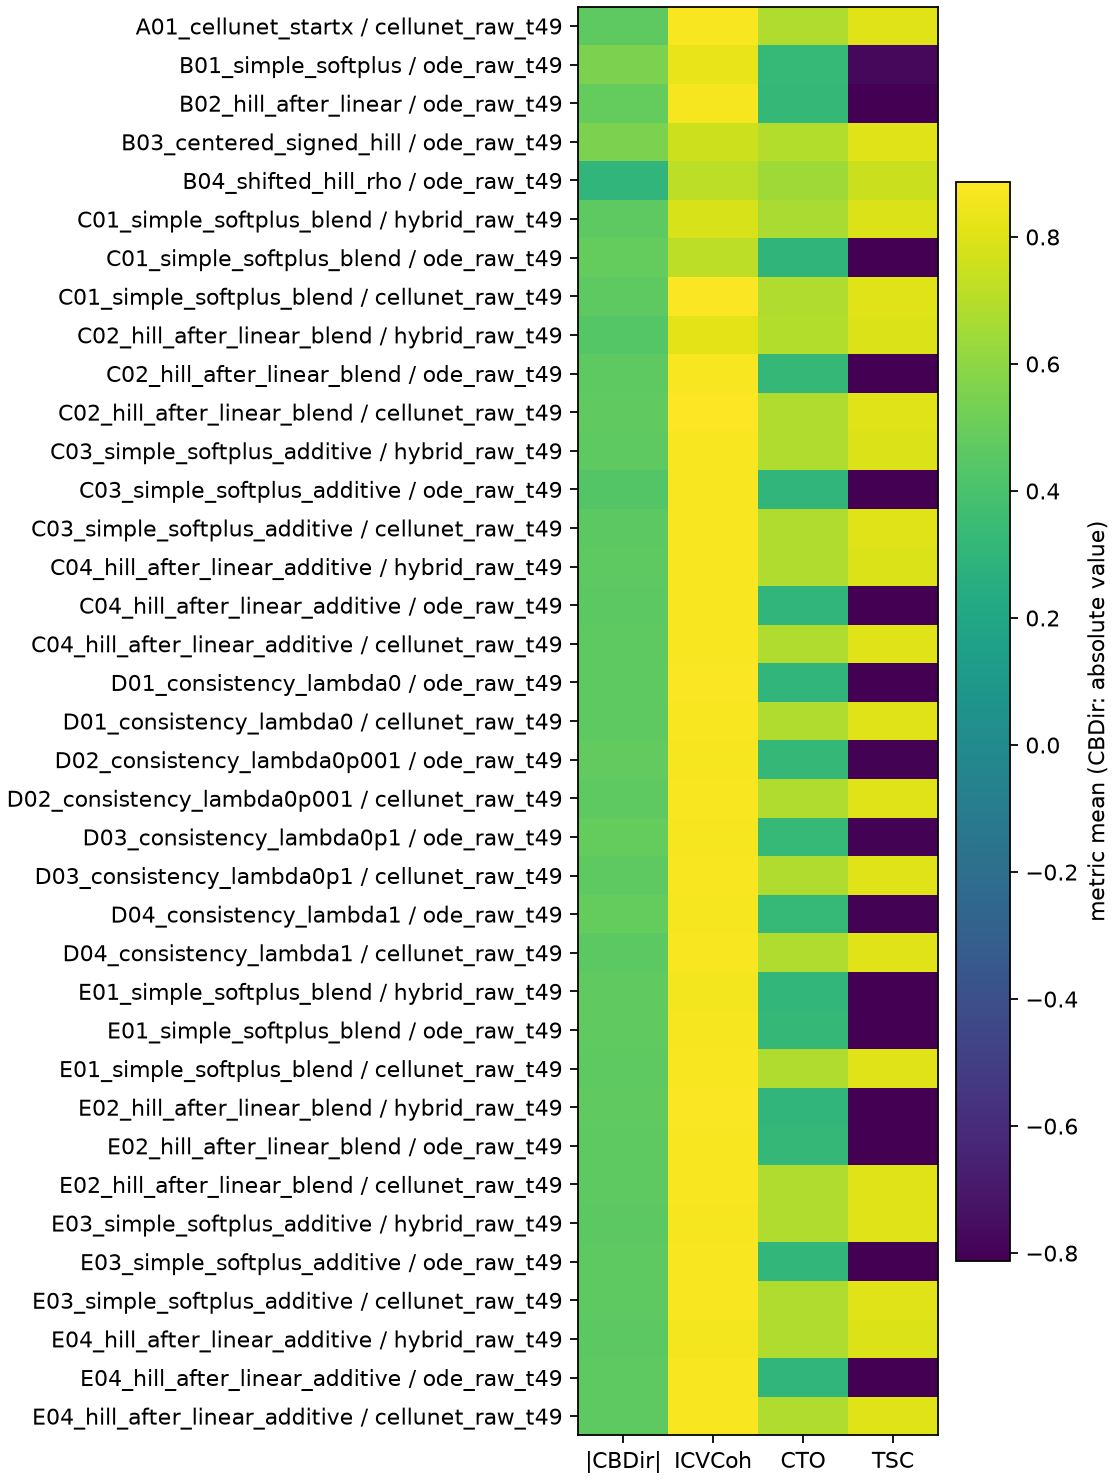
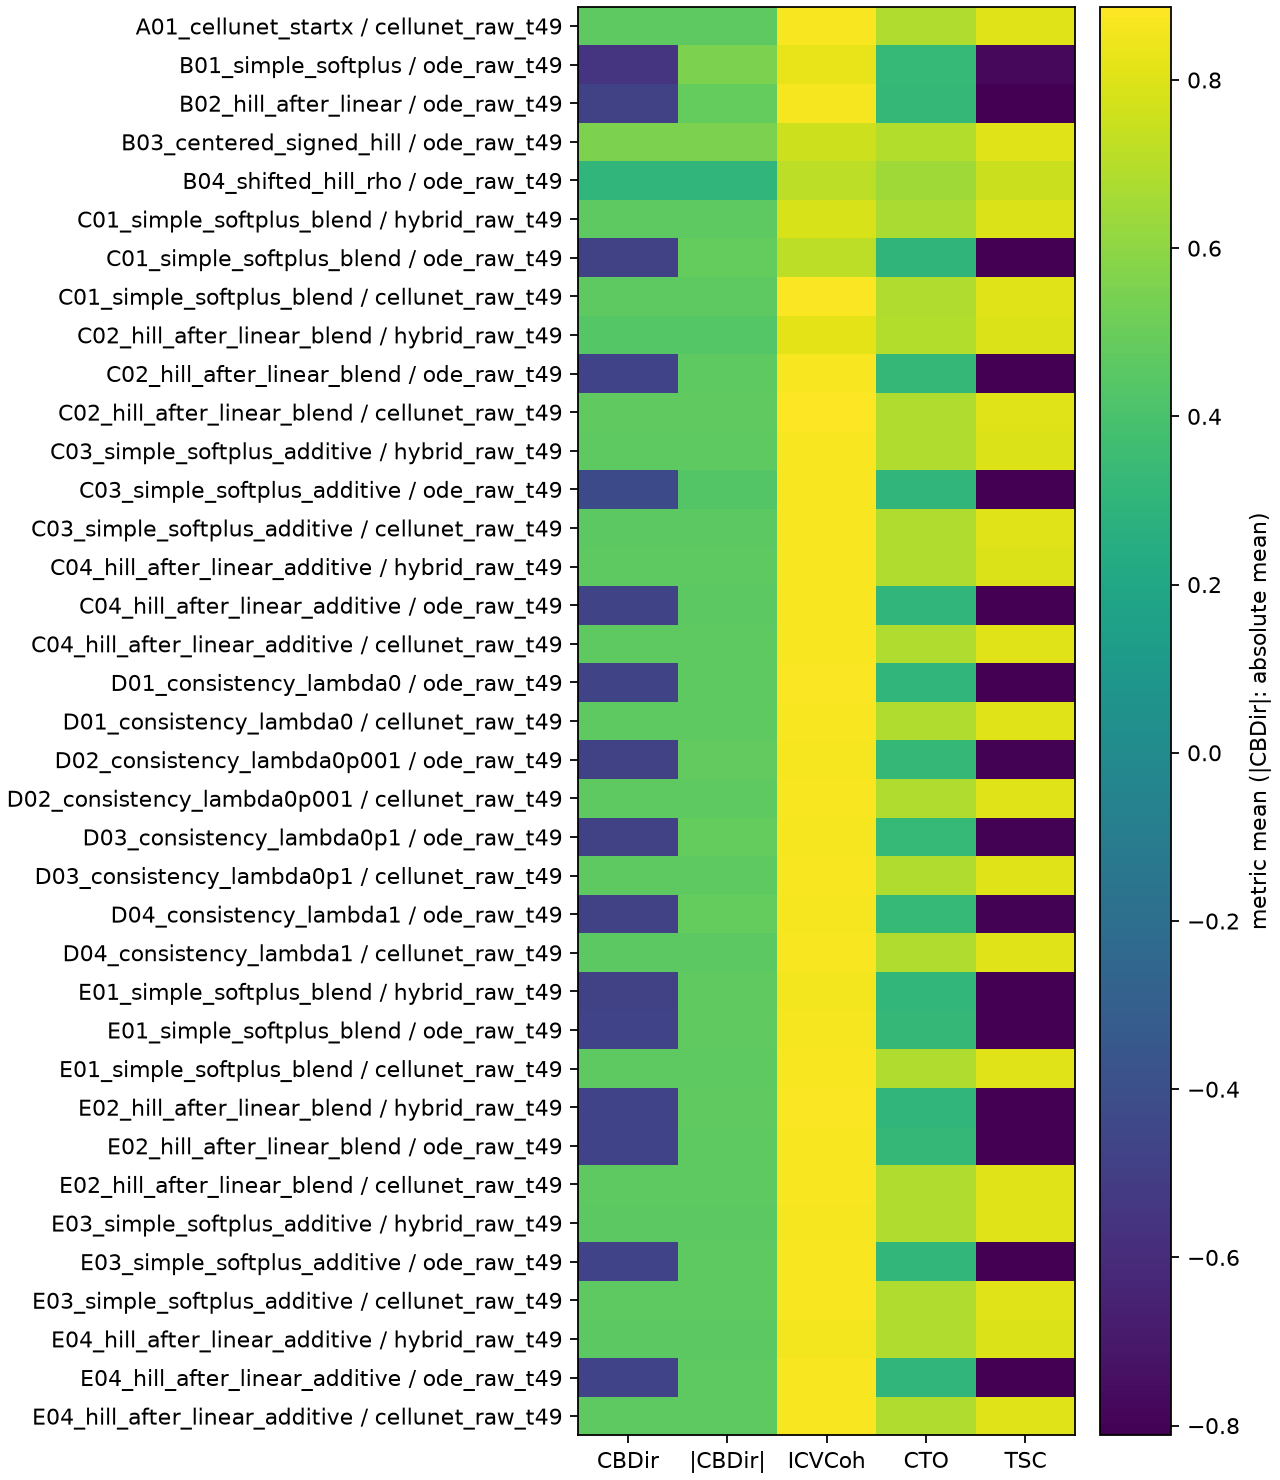
Show signed and absolute CBDir together in comparison plots

diff --git a/work/20261010_model_comparison/scripts/replot_comparison.py b/work/20261010_model_comparison/scripts/replot_comparison.py
@@ -1,4 +1,4 @@
-"""Redraw comparison CSV plots with absolute CBDir; never rewrite source scores."""
+"""Redraw comparison plots with signed and absolute CBDir side by side."""
 import argparse
 from pathlib import Path
 
@@ -12,32 +12,33 @@ import pandas as pd
 def replot(csv_path):
     frame = pd.read_csv(csv_path)
     out = Path(csv_path).parent
-    metrics = ('cbdir', 'icvcoh', 'cto', 'tsc')
-    titles = ('|CBDir|', 'ICVCoh', 'CTO', 'TSC')
+    metrics = ('cbdir', 'abs_cbdir', 'icvcoh', 'cto', 'tsc')
+    titles = ('CBDir', '|CBDir|', 'ICVCoh', 'CTO', 'TSC')
     keys = ['inference_protocol', 'profile', 'reference_manifest_sha256']
     for i, ((protocol, profile, _), original) in enumerate(frame.groupby(keys)):
         part = original.copy()
         # Display |mean|, retaining the original population SD. Fold markers
         # show |fold score|; this is not a recomputed mean of absolute folds.
         for column in ('cbdir_mean', 'cbdir_fold0', 'cbdir_fold1', 'cbdir_fold2'):
-            part[column] = part[column].abs()
+            part['abs_'+column] = part[column].abs()
+        part['abs_cbdir_std'] = part['cbdir_std']
         labels = part.condition + ' / ' + part.field
         y = np.arange(len(part))
-        fig, axes = plt.subplots(1, 4, figsize=(18, max(4, len(part)*.25)), layout='constrained')
+        fig, axes = plt.subplots(1, 5, figsize=(21, max(4, len(part)*.25)), layout='constrained')
         for ax, metric, title in zip(axes, metrics, titles):
             ax.errorbar(part[metric+'_mean'], y, xerr=part[metric+'_std'], fmt='o')
             for fold in range(3):
                 ax.scatter(part[f'{metric}_fold{fold}'], y, s=12, alpha=.5)
             ax.set_yticks(y, labels if ax is axes[0] else [])
             ax.set_title(title)
-        fig.suptitle(f'{protocol} / {profile}; CBDir: |mean| and |folds|, original SD; other metrics unchanged')
+        fig.suptitle(f'{protocol} / {profile}; |CBDir|: |mean| and |folds|, original SD')
         fig.savefig(out/f'metrics_{i}.png', dpi=160)
         plt.close(fig)
-        fig, ax = plt.subplots(figsize=(7, max(4, len(part)*.25)), layout='constrained')
+        fig, ax = plt.subplots(figsize=(8, max(4, len(part)*.25)), layout='constrained')
         im = ax.imshow(part[[m+'_mean' for m in metrics]].to_numpy(), aspect='auto')
-        ax.set_xticks(range(4), titles)
+        ax.set_xticks(range(5), titles)
         ax.set_yticks(y, labels)
-        fig.colorbar(im, ax=ax, label='metric mean (CBDir: absolute value)')
+        fig.colorbar(im, ax=ax, label='metric mean (|CBDir|: absolute mean)')
         fig.savefig(out/f'heatmap_{i}.png', dpi=160)
         plt.close(fig)
         print(out/f'heatmap_{i}.png')
